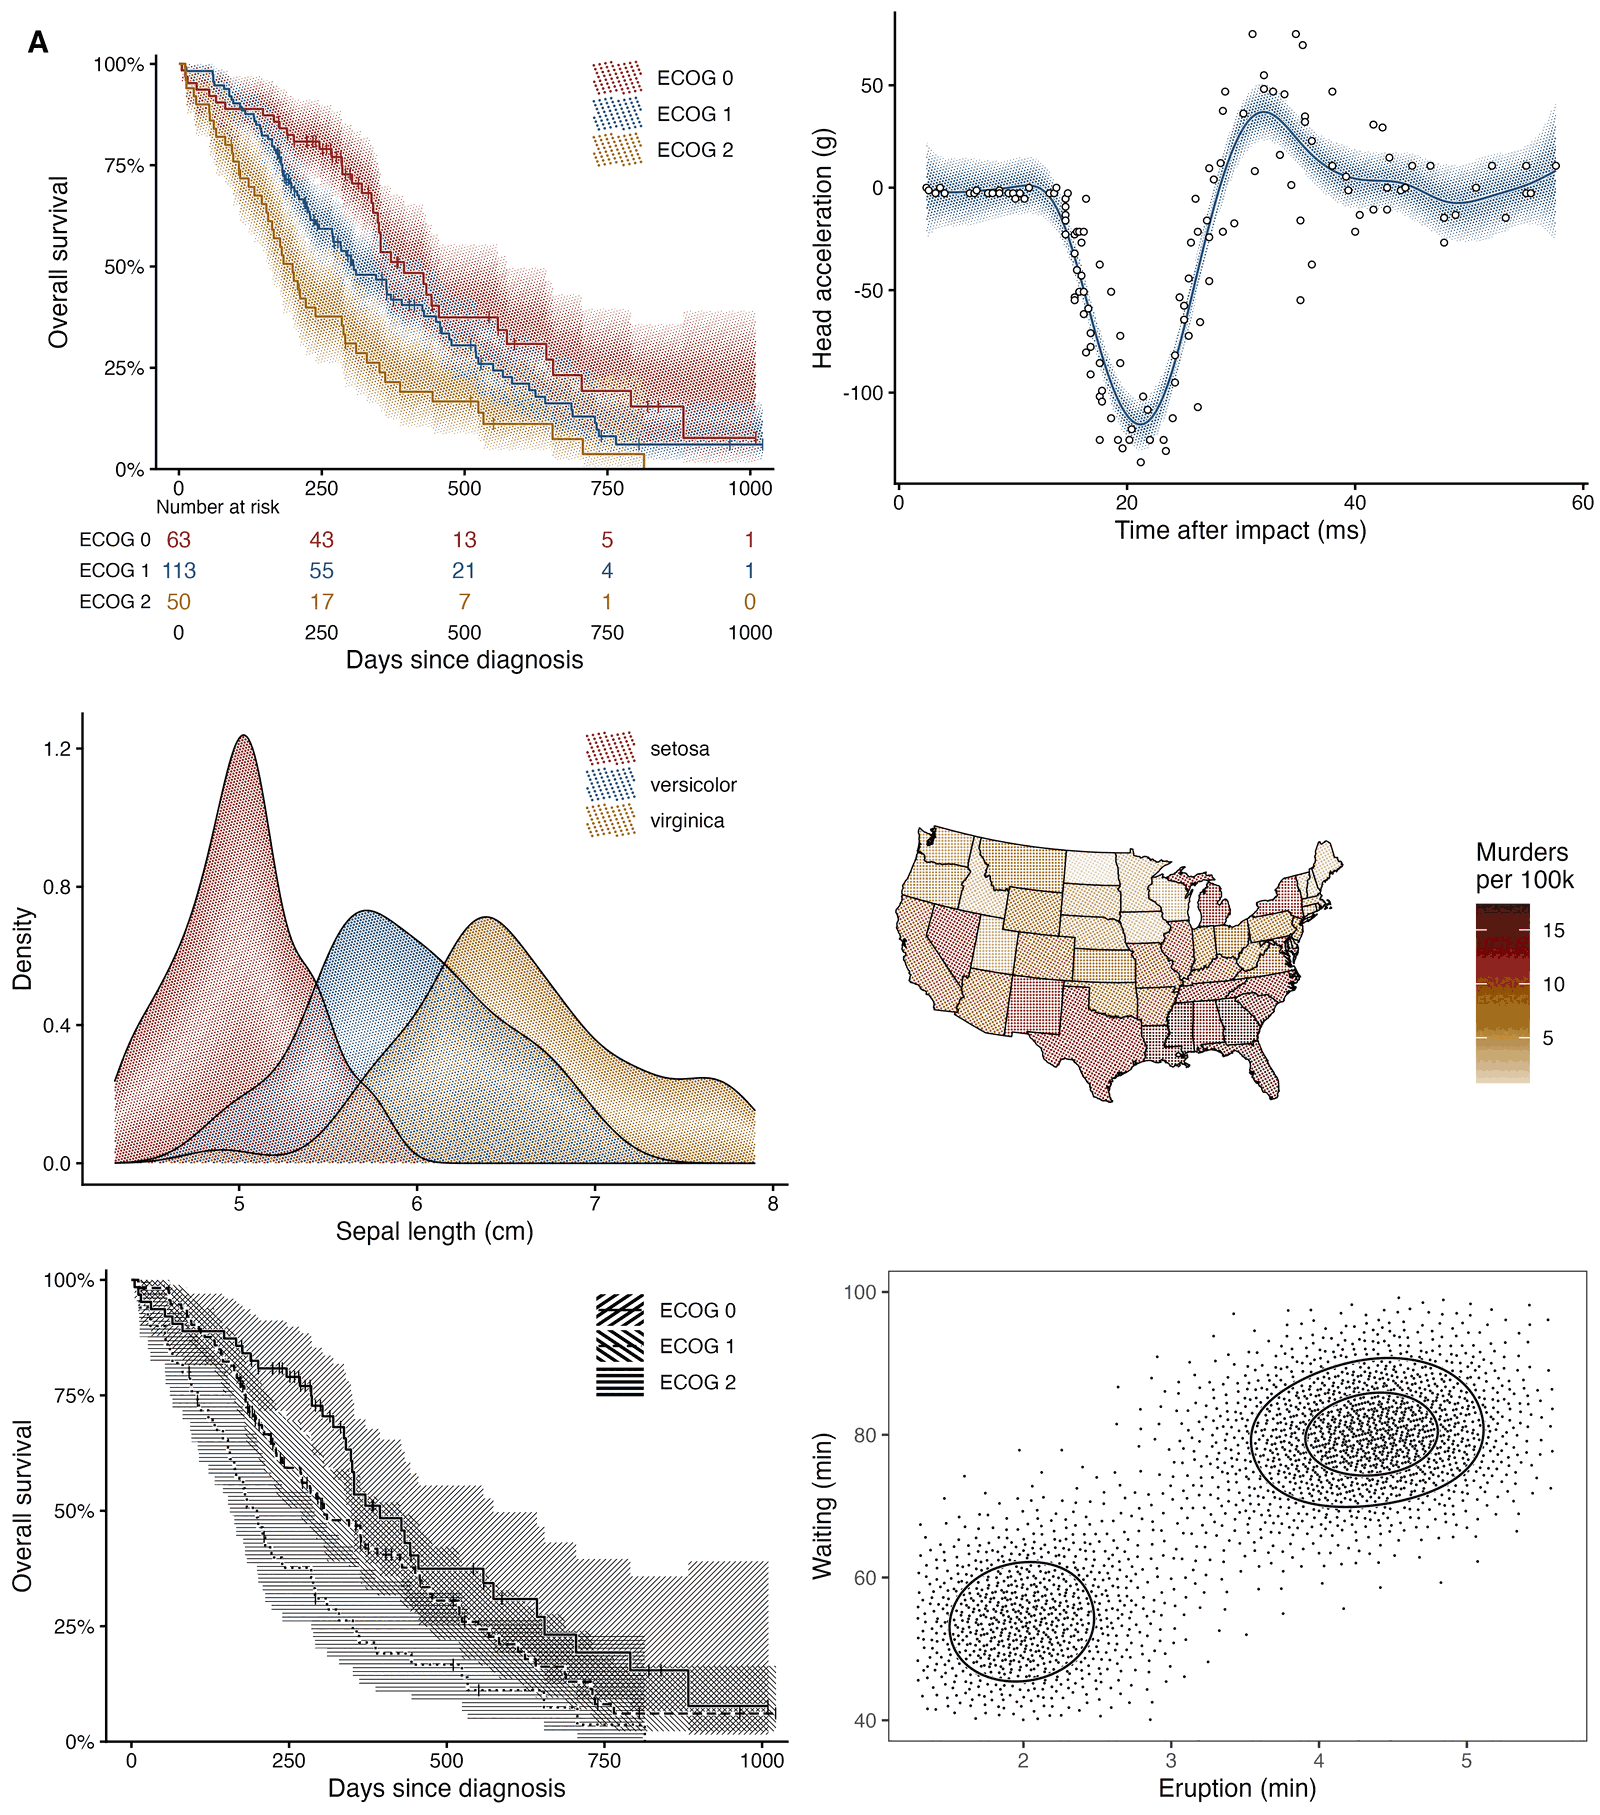
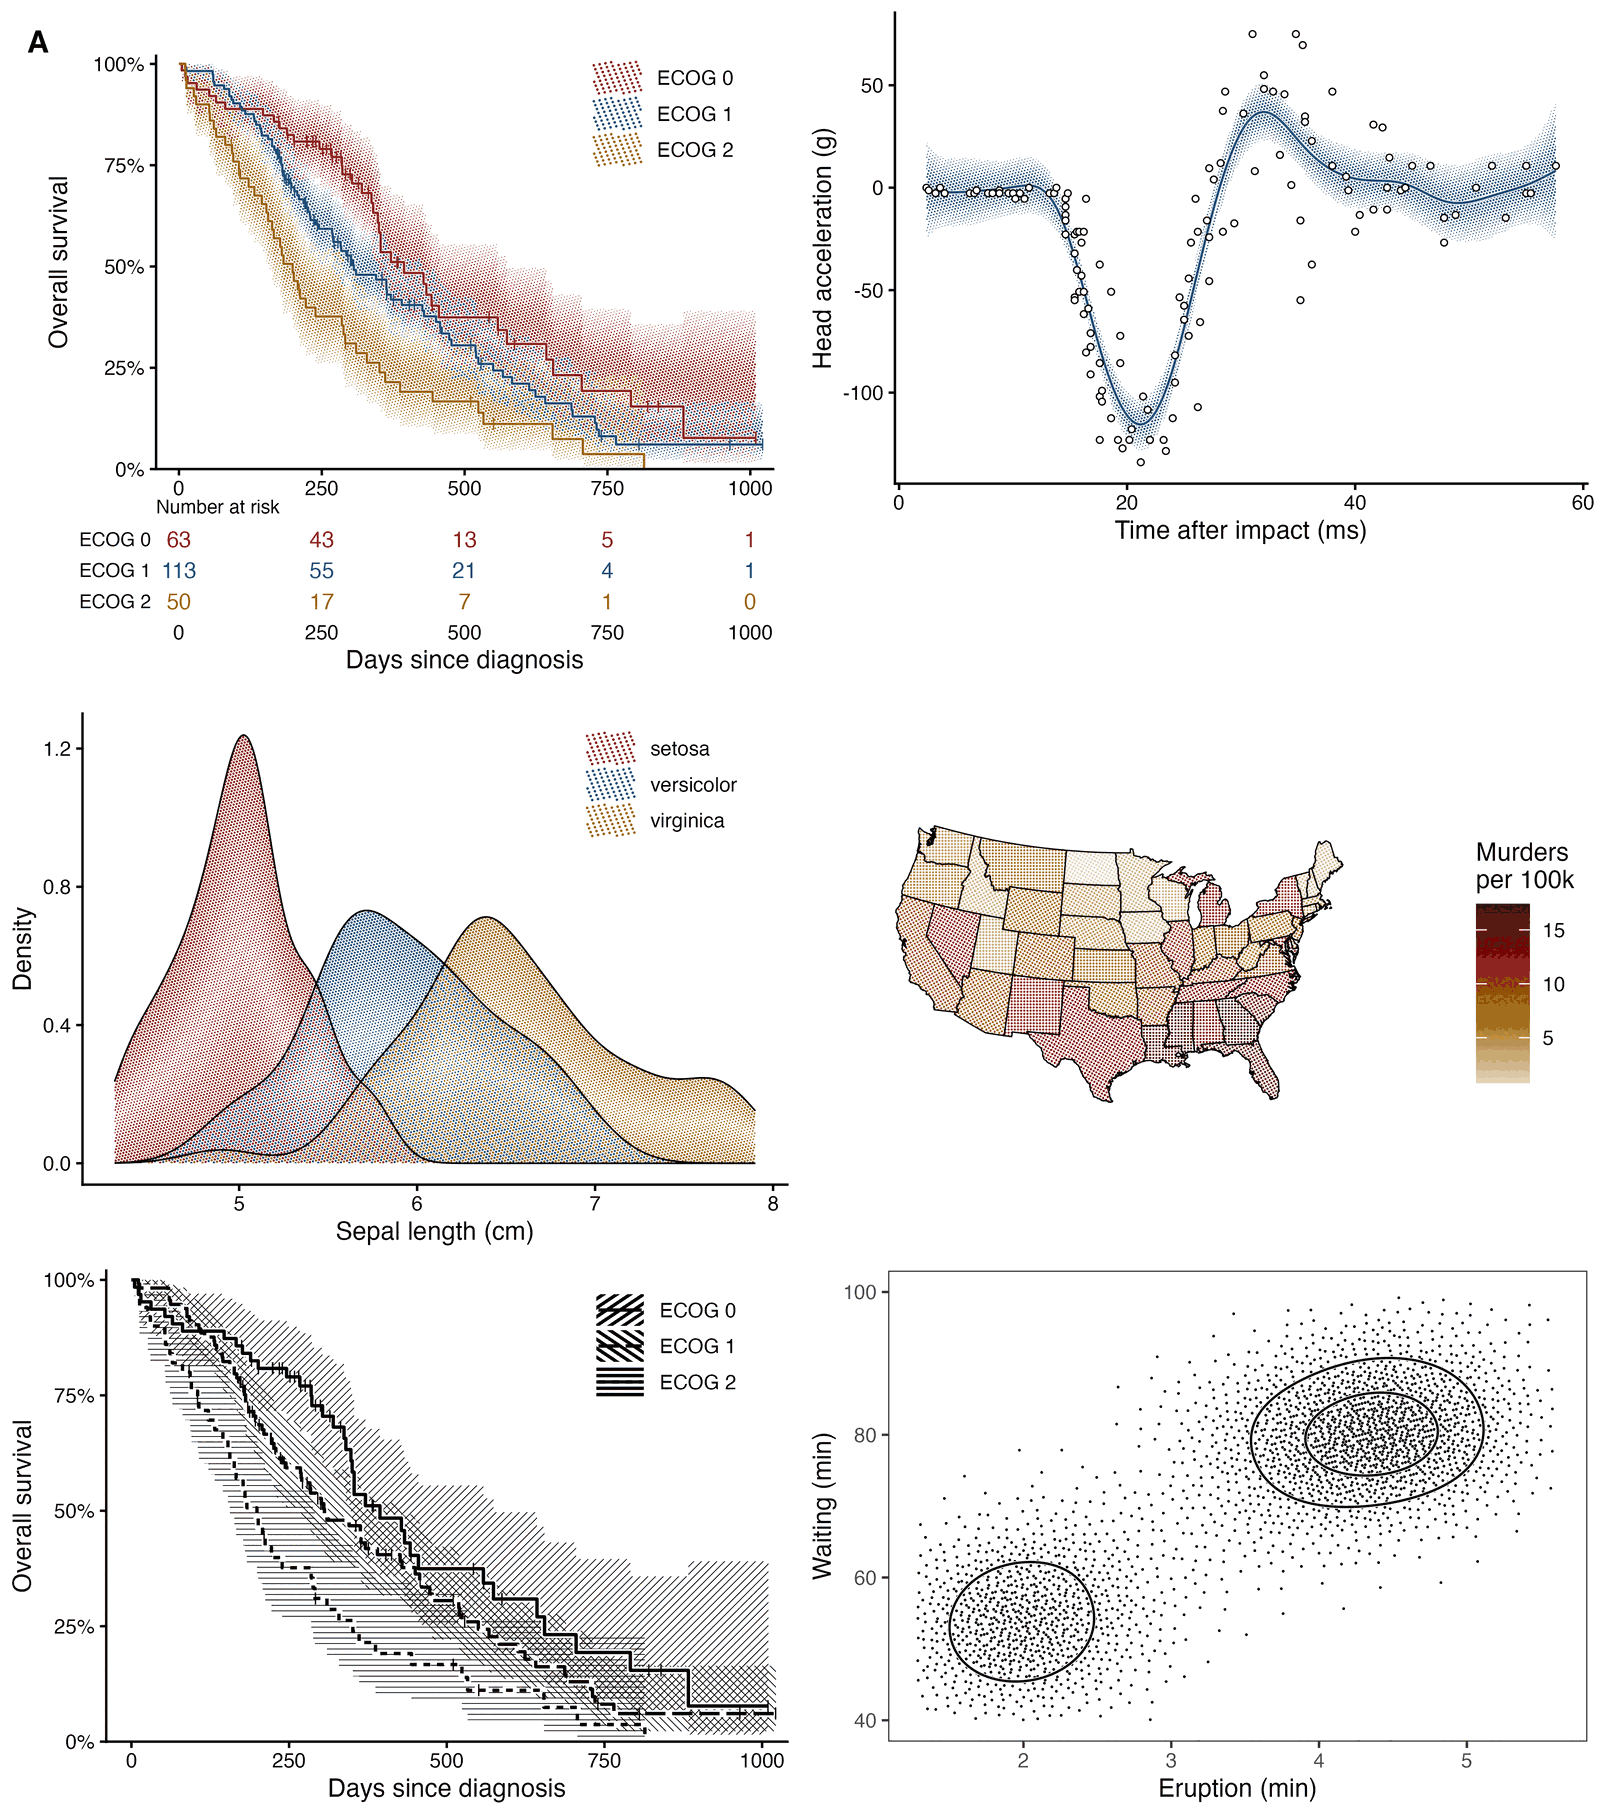
km_bw legibility; drop the editorial plate
Three overlapping hatches make a mesh that swallows a thin dashed line.
Four settings together fix it, chosen from a four-way comparison at 600
dpi: pitch 0.5 -> 0.7, halo 0.09 -> 0.2, linewidth 0.35 -> 0.5, dashes
42/12 -> 62/22. Applied in the gallery and the screens vignette, with the
reasoning in the vignette prose.

The editorial plate is removed from the gallery, README and figures/v2.
It existed to show a second register; with the editorial theme gone it
showed only a plot with a serif title.

Changed region(s): [[0.0625, 0.7096, 0.5, 0.9565]]

diff --git a/design_review.md b/design_review.md
@@ -208,3 +208,23 @@ README makes.
 Found while re-rendering: densities were getting automatic per-group screens, because `GeomDensity` inherits from
 `GeomArea` and the tiling test matched it. The overlaps showed the moire that rule exists to prevent. Excluded, with
 a test.
+
+## One-ink KM legibility, and dropping the plate (2026-09-22)
+
+Author: the line styles in `km_bw` are hard to see inside the shading. Four candidates at 600 dpi: the current
+treatment; a wider halo with a heavier line and longer dashes; solid steps at three line weights; and the same as the
+second with a coarser hatch. The last wins, and the fix is four settings acting together rather than any one of them:
+
+| setting | before | after | why |
+|---|---|---|---|
+| pitch | 0.5 mm | 0.7 mm | three overlapping hatches make a dense mesh; a coarser one leaves white for the line |
+| halo | 0.09 mm | 0.2 mm | the line needs its own channel through the mesh, wider than against dots |
+| linewidth | 0.35 | 0.5 | more ink in the line than in any hatch stroke |
+| dashes | 42, 12 | 62, 22 | a short dash is the same length as a hatch stroke and disappears into it |
+
+Solid steps at three weights were legible but the weights are harder to tell apart than dash patterns, and the heaviest
+line was too black beside a hairline hatch.
+
+The editorial plate is removed from the gallery, the README and `figures/v2/`. It was there to show a second register;
+with the editorial theme gone it only showed a plot with a serif title, which is not what an R package README is for.
+The engraving already carries the line screen in the README.

diff --git a/TODO.md b/TODO.md
@@ -23,9 +23,8 @@ Status (2026-09-22): builds and installs on R 4.6.1 and ggplot2 4.0.3. 86 regres
 - The two-ink weave has no perfect solution on a hex lattice. Blue-noise assignment is used for k other than 3. Acceptable at 600 dpi.
 - With overprinting, the lower half of each Kaplan-Meier band is denser because it overlaps the neighbour's core. Use `overlap = "stack"` if the bands must be symmetric.
 - Line screens with a tapered tone profile look like fringe. The wrapper warns.
-- The package sets no fonts. The gallery uses stock ggplot2 themes; the editorial plate names EB Garamond and Inconsolata, installed as user fonts (Homebrew casks, 2026-09-22).
+- The package sets no fonts. The gallery uses stock ggplot2 themes.
 - Vignette PNGs are quantised to 48 colours because halftone images compress poorly. The source tarball is 1.9 MB. The R magick package must be installed for the quantisation hook to run; without it the tarball is 5 MB.
-- There is no editorial style in the package. The Maunga Whau plate in `figures/v2/editorial.png` is `theme_void()` plus four theme lines in the gallery script.
 
 ## Design rules
 

diff --git a/CLAUDE.md b/CLAUDE.md
@@ -12,7 +12,7 @@ R package: halftone, dither and line-screen fills for ggplot2. Dots are placed a
 - For every visual change, render at 600 dpi with `ggsave_journal()`, crop the region of interest, and compare with the previous accepted figure side by side. Do not judge from thumbnails.
 - Every bug gets a test in `test-regressions.R`, at pixel level through ragg and png.
 - Defaults are the product. Before adding an argument to a gallery call, ask whether the default should change. See `design_review.md`.
-- Default pitch is 0.35 mm. The pitch ladder in `design_review.md` shows why. Coarsen only for a poster or an editorial plate.
+- Default pitch is 0.35 mm. The pitch ladder in `design_review.md` shows why. Coarsen only for a poster.
 - The package sets no fonts, so examples run on the base pdf device without special handling.
 - Vignettes in `gghalftone/vignettes/` are the prose gallery. `_pkgdown.yml` builds the site into `docs/`, which is gitignored.
 - `theme_halftone()` is a modifier, not a complete theme. The gallery adds it to stock ggplot2 themes through `th()` in `gallery2.R`.

diff --git a/gghalftone/README.md b/gghalftone/README.md
@@ -68,10 +68,6 @@ The package does not ship a complete theme. `theme_halftone()` is a modifier tha
 
 `ggsave_journal("fig.pdf", p, "double")` saves at 183 mm. The file extension selects the format: PNG or TIFF at 600 dpi, or vector PDF. `halftone_proof()` renders a plot at final size and a magnified crop. `theme_halftone(palette = "process")` uses press colours made of one or two process plates.
 
-The plate below is `theme_void()` with a serif title, a monospace caption and `theme_halftone(paper = halftone_paper)`.
-
-![Maunga Whau as an editorial plate: engraving with illuminated contours, Garamond title, monospace caption, cream paper](man/figures/editorial.png)
-
 ## Status
 
 Prototype. The API of `geom_halftone()`, `geom_spot()`, `with_halftone()`, `with_halo()`, `with_relief()`, the `screen` and `tone` aesthetics, `km_steps()` and the `theme_halftone()` modifier is considered stable. Every export has a help page. Start with `?with_halftone`.
